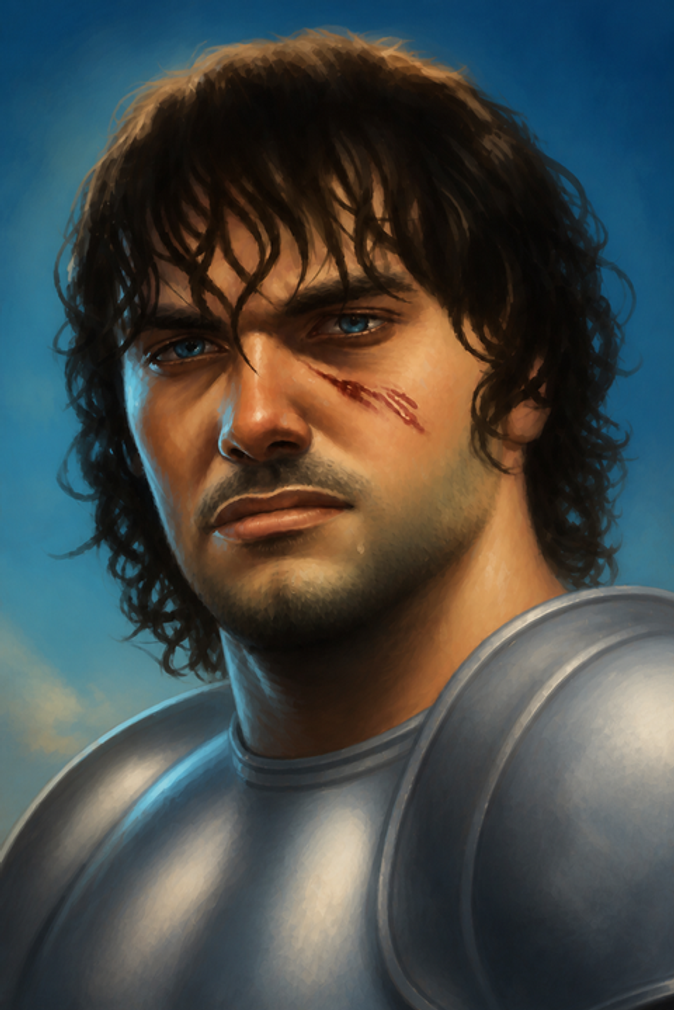
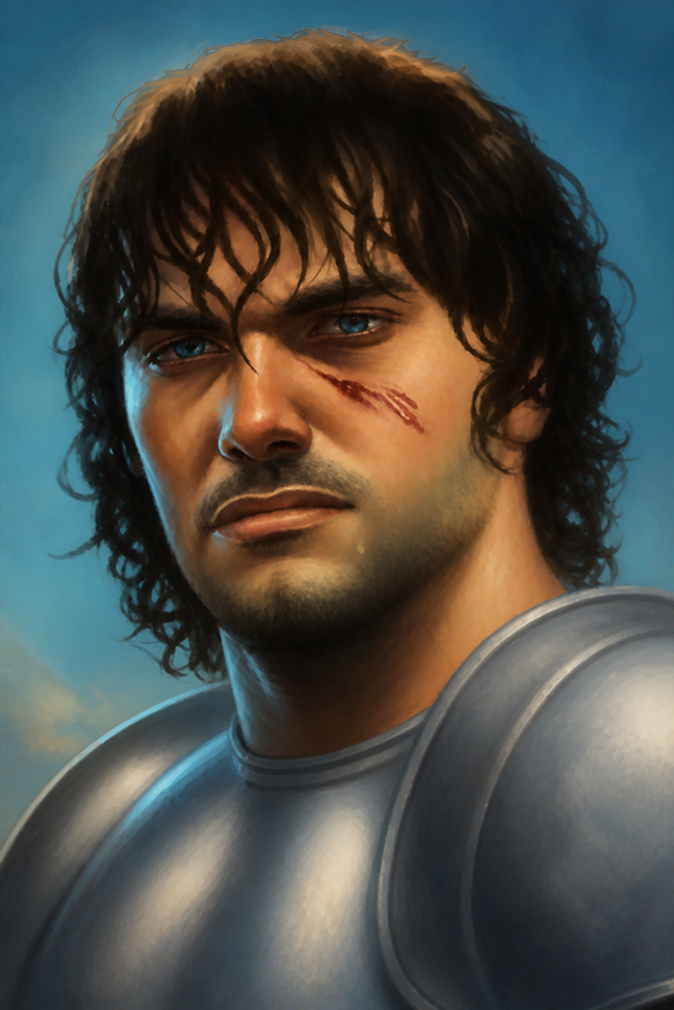
feat(web): brighten loyal servant role artwork

Changed region(s): [[0.0, 0.0, 1.0, 0.6139], [0.9347, 0.3683, 0.9659, 0.4297]]

diff --git a/docs/PROJECT_STATUS.md b/docs/PROJECT_STATUS.md
@@ -2,7 +2,7 @@
 
 > 这是项目进度的唯一维护入口。更新代码或完成一个独立模块后，同时更新本文件的状态、验收条件和提交记录。
 >
-> 最后更新：2026-09-01
+> 最后更新：2026-09-02
 
 ## 当前结论
 
@@ -26,8 +26,8 @@
 - 新房间默认成对启用 Percival 与 Morgana，也可在创建时关闭并使用基础角色；缺少持久化角色配置的旧房间继续使用基础角色。开局在首次组队前依次进行全员身份查看、邪恶阵营互认、梅林辨认邪恶阵营和按配置启用的帕西维尔辨认梅林候选；当前版本不显示或使用倒计时，每步等待全部参与者确认，其他玩家保持在不透明幕布后。
 - Web 使用仅保存在浏览器的随机默认名称与八款装饰头像；主页 Header 用户中心可修改资料，存在任何活动房间座位时锁定名称和头像。创建/加入直接使用当前资料，不再弹出名称确认；同一房间允许同名并以座位号区分。
 - 创建房间先打开配置弹窗，当前支持 5–10 人选择、阵营/任务人数摘要与 Percival/Morgana 成对配置。
-- Web 提供统一“帮助说明”：主页桌面端使用文字入口、移动端收为 44px 图标，等待大厅和游戏页使用图标入口；弹窗分为“游戏基础规则”和“角色说明”两个 Tab。创建配置中的角色问号会直接打开角色说明，将帕西维尔与莫甘娜前置并短暂脉冲高亮；Merlin、Percival、Assassin、Morgana 使用响应式角色立绘，Loyal Servant 与 Minion 暂留矩形素材位。
-- Web 角色立绘已建立显式素材转换流程：无损 PNG 母版保存在 `images/source/roles/`，`apps/web` 使用 Sharp 按原比例生成 `320w`、`480w`、`674w` WebP，并保留透明通道、验证输出后原子替换派生文件；以下划线开头的保留母版不参与转换。当前已生成 Assassin、Merlin、Mordred、Morgana、Oberon、Percival 六个角色的三档素材；帮助说明已使用原生 `srcset` 接入 Merlin、Percival、Assassin、Morgana，Loyal Servant 与 Minion 暂留占位，游戏圆桌仍使用既有方形角色头像。
+- Web 提供统一“帮助说明”：主页桌面端使用文字入口、移动端收为 44px 图标，等待大厅和游戏页使用图标入口；弹窗分为“游戏基础规则”和“角色说明”两个 Tab。创建配置中的角色问号会直接打开角色说明，将帕西维尔与莫甘娜前置并短暂脉冲高亮；Merlin、Percival、Loyal Servant、Assassin、Morgana、Minion 六个 MVP 角色均使用响应式角色立绘。
+- Web 角色立绘已建立显式素材转换流程：无损 PNG 母版保存在 `images/source/roles/`，`apps/web` 使用 Sharp 按原比例生成 `320w`、`480w`、`674w` WebP，并保留透明通道、验证输出后原子替换派生文件；以下划线开头的保留母版不参与转换。当前已为 Assassin、Loyal Servant、Merlin、Minion、Mordred、Morgana、Oberon、Percival 生成三档素材；帮助说明使用原生 `srcset` 接入六个 MVP 角色，游戏圆桌仍使用既有方形角色头像。
 - 系统通知统一使用最多三条的顶部 Toast；主页不提供通知历史入口。房间 Header 提供无未读徽标的操作日志，记录当前客户端观察到的公开加入/退出，以及开局、提案、结算投票、匿名任务结果、刺杀和胜负。
 - Web 主页和个人设备圆桌等待大厅已完成响应式重设计；大厅以当前玩家为底部锚点，在所有宽度采用同一套圆形座位 DOM。房主开局进入桌面中央，退出/解散进入顶部房间菜单；健康连接不显示状态，连续断线 8 秒后才在顶部提供手动重连。房间页在最低 320×568 竖屏与 568×320 横屏内按宽高可用空间缩放，不产生页面滚动。
 - 等待大厅支持玩家凭据授权的主动离座：普通玩家只释放自己的座位，房主解散整个房间；游戏开始后拒绝这两类操作，返回主页仍是保留座位的无损导航。
@@ -164,7 +164,9 @@
 
 ## 当前验证基线
 
-最近一次验证日期：2026-09-01
+最近一次验证日期：2026-09-02
+
+2026-09-02 Loyal Servant 背景调色与素材验证：以 Percival 为主要参考，仅调整 `Loyal-Servant.png` 的蓝色背景；顶部角落亮度由 `L*=25.33` 提升至 `36.09`，外侧背景由 `32.85` 提升至 `42.25`，外侧线性亮度比 Percival 低 `0.12 EV`，背景饱和度相对降低约 21%，蓝色色相向青蓝移动约 4°。面部保护区和画面下方 28% 与原图逐像素一致，无高光或暗部剪切。定向转换生成 `320×480`、`480×719`、`674×1010` 三档 sRGB WebP。应用内浏览器在 1280×720、DPR 2 下选用 674w，在 390×844、DPR 1 下选用 320w；桌面三列卡片和移动端横向卡片均正常显示，页面无横向溢出，控制台无 warning/error。Web 240 tests 和 Web build 均 exit 0；build 保留既有单个 556.76 kB minified / 167.48 kB gzip JavaScript chunk 建议性警告。本次未运行完整 Playwright、lint、真实 LAN 或 PostgreSQL 验收。
 
 2026-09-01 帮助说明角色图片接入验证：角色说明为 Merlin、Percival、Assassin、Morgana 渲染三档 WebP `srcset`，浏览器根据 `sizes` 和显示密度原生选择资源；Loyal Servant 与 Minion 继续显示原占位，不使用不对应的 Mordred 或 Oberon 素材。应用内浏览器在 1280×720、DPR 2 下实际选择 674w，在 390×844、DPR 1 下实际选择 320w；移动端仅固定图片宽度并使用固有宽高自动计算高度，三张常规图片实测显示比例为 0.6667，Assassin 为 0.6413，均与文件比例一致，`sm` 以上继续保留当前 4:3 容器。六张角色卡均未越出视口，页面无横向溢出且控制台无 error/warning。Web 240 tests、Web build、lint 均 exit 0；build 保留单个 556.66 kB minified / 167.46 kB gzip JavaScript chunk 建议性警告。本次未运行完整 Playwright、真实 LAN 或 PostgreSQL 验收。
 
